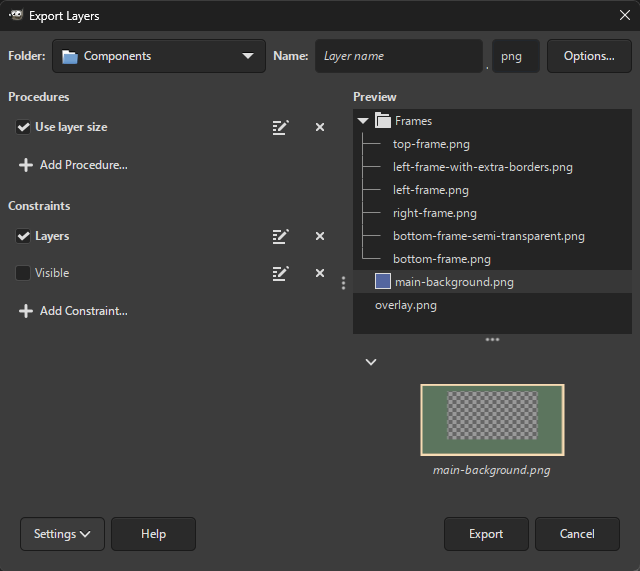
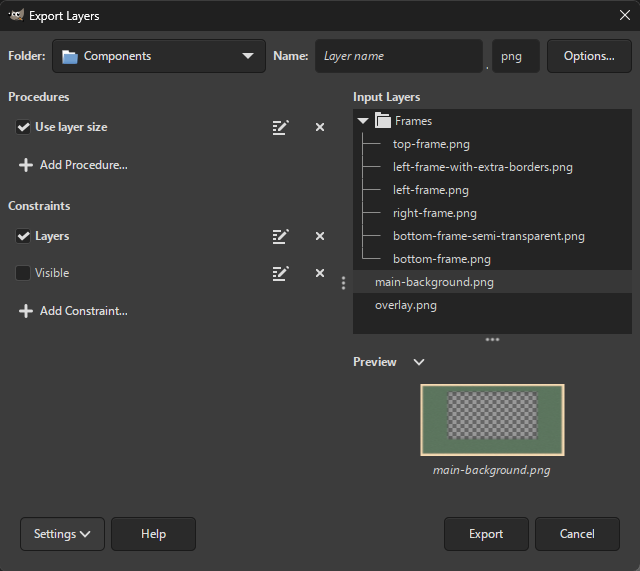
Release 0.8

diff --git a/sections/Customization.md b/sections/Customization.md
@@ -79,8 +79,8 @@ Yes! You may insert any GIMP filter as a procedure:
 While multipage PDF export is already possible in GIMP without any third-party plug-ins, Batcher allows you to apply custom procedures before the export or export each group layer (instead of the entire image).
 
 1. Select or type `pdf` as the file extension.
-2. Press the `Options...` button and select an option in `Perform export:`. To export a single image, select `For the entire image at once`.
-3. If you selected `For the entire image at once`, adjust `Image filename pattern` as seen fit.
+2. Press the `Options...` button and select an option in `Perform export:`. To export a single image, select `As a single image`.
+3. If you selected `As a single image`, adjust `Image filename pattern` as seen fit.
 4. You may want to uncheck the `Use layer size` procedure to use the image size (since PDF pages have the same dimensions), otherwise you might obtain unexpected results.
 
 
@@ -96,8 +96,8 @@ Each time you add this procedure, adjust the file extension, file format options
 * *How to adjust file format options*: If set to `Interactively`, a native file format dialog is displayed for the first layer to be exported. If set to `Use options below` (the default), you can adjust file format options in place without showing a file format dialog.
 * *File format options*: A list of options specific to the file format typed in the main dialog.
 * *If a file exists*: If set to `Ask` (the default), the user is asked to choose how to handle existing files (replace, skip, rename, etc.). Setting this to a different value applies that mode to each file without asking the user (e.g. setting this to `Replace` will automatically replace all existing files with the same name).
-* *Perform export*: Whether to export each layer separately ("For each layer"), each top-level layer or group layer separately ("For each top-level layer or group"), or a single image containing all layers ("For the entire image at once").
-  The latter two options provide multi-layer export. This allows exporting e.g. multipage PDFs or animated GIFs per top-level group layer and/or with additional custom procedures applied before the export.
+* *Perform export*: Whether to export each item separately ("For each image"/"For each layer"), each top-level item or folder separately ("For each top-level layer or group"/"For each top-level image or folder"), or a single image containing all items ("As a single image").
+  The latter two options provide multi-layer export. This allows exporting e.g. multipage PDFs or animated GIFs with additional custom procedures applied before the export.
 * *Image filename pattern*: Filename pattern available when a single image is exported (the "Entire image at once" option is selected).
   For Export Layers, the text entry next to `Name` still applies to individual layer names (since some multi-layer file formats also store layer names, e.g. TIFF or PSD).
 * *Use file extension in layer name*: If a layer name has a recognized file extension, use that file extension in place of the default file extension.
@@ -150,16 +150,19 @@ The layer name.
 
 Options:
 * *file extension strip mode*:
-	* `%e`: If a layer has a recognized file extension, keep the extension.
-	* `%i`: If a layer has a recognized file extension that matches the one in the `File extension` text entry, keep the extension.
+	* `%e`: Never strip the extension.
+	* `%i` (does not apply to Edit Layers): Strip the extension only if the layer has a recognized file extension that does not match the entered file extension.
+	* `%n` (does not apply to Edit Layers): Strip the extension only if the layer has a recognized file extension that matches the entered file extension (the inverse of `%i`).
 
 Examples:
-* `[layer name]` → `Frame.png`
-* `[layer name]` for a layer named `Some.Layer.png` → `Some.png`
-* `[layer name, %e]` → `Frame.png`
-* `[layer name, %e]` for a layer named `Some.Layer.png` → `Some.Layer.png`
-* `[layer name, %i]` → `Frame.png` (if the file extension is `png`)
-* `[layer name, %i]` → `Frame` (if the file extension is `jpg`)
+* `[layer name]` for a layer named `Frame` → `Frame`
+* `[layer name]` for a layer named `Frame.png` → `Frame`
+* `[layer name, %e]` for a layer named `Frame.png` if the file extension is `png` → `Frame.png`
+* `[layer name, %i]` for a layer named `Frame.png` if the file extension is `png` → `Frame.png`
+* `[layer name, %n]` for a layer named `Frame.png` if the file extension is `png` → `Frame`
+* `[layer name, %e]` for a layer named `Frame.png` if the file extension is `jpg` → `Frame.jpg`
+* `[layer name, %i]` for a layer named `Frame.png` if the file extension is `jpg` → `Frame`
+* `[layer name, %n]` for a layer named `Frame.png` if the file extension is `jpg` → `Frame.jpg`
 
 **Full layer name**
 
@@ -187,17 +190,36 @@ Options:
 * *wrapper*: A string that wraps around each path component.
   The wrapper must contain `%c` denoting the path component.
   Defaults to `%c`.
-* *file extension strip mode*:
-	* `%e`: If a layer has a recognized file extension, keep the extension.
-	* `%i`: If a layer has a recognized file extension that matches the one in the `File extension` text entry, keep the extension.
+* *file extension strip mode*: See the `\[layer name\]` field.
 
 Examples:
 * `[layer path]` → `Body-Hands-Left`
 * `[layer path, _]` → `Body_Hands_Left`
 * `[layer path, _, (%c)]` → `(Body)_(Hands)_(Left)`
 * `[layer path, _, (%c), %e]` → `Body-Hands-Left.png` (if the layer name is `Left.png` and the file extension is `png`)
-* `[layer path, _, (%c), %i]` → `Body-Hands-Left.png` (if the layer name is `Left.png` and the file extension is `png`)
-* `[layer path, _, (%c), %i]` → `Body-Hands-Left` (if the layer name is `Left.png` and the file extension is e.g. `jpg`)
+
+**\[output folder\]**
+
+The output folder selected in the plug-in dialog.
+
+Options:
+* *path component strip mode* (defaults to `%b`):
+  * `%b<number>`: Keep only `<number>` path components from the end. `%b` is transformed to the last path component, i.e. the folder name.
+  * `%f<number>`: Keep only `<number>` path components from the start.
+  * any other value, such as `%`, will resolve to the full path.
+* *separator*: A string separating the path components.
+  Defaults to `-`.
+* *wrapper*: A string that wraps around each path component.
+  The wrapper must contain `%c` denoting the path component.
+  Defaults to `%c`.
+
+Examples for a folder with the path `C:\Users\username\Pictures`:
+* `[output folder]` → `Pictures`
+* `[output folder, %]` → `C-Users-username-Pictures`
+* `[output folder, %b2]` → `username-Pictures`
+* `[output folder, %b2, _]` → `username_Pictures`
+* `[output folder, %b2, _, (%c)]` → `(username)_(Pictures)`
+* `[output folder, %f2]` → `C-Users`
 
 **\[replace\]**
 
@@ -260,19 +282,19 @@ Examples:
 
 **\[attributes\]**
 
-Layer or image attributes.
+Attributes of the current image and the current Layer.
 
 Options:
 * *pattern*: A string formatting the attributes.
   Available attributes:
-  * `%w`: The layer width.
-  * `%h`: The layer height.
-  * `%x`: The layer *x*-offset.
-  * `%y`: The layer *y*-offset.
   * `%iw`: The image width.
   * `%ih`: The image height.
+  * `%lw`: The layer width.
+  * `%lh`: The layer height.
+  * `%lx`: The layer *x*-offset.
+  * `%ly`: The layer *y*-offset.
 * *measure*: The measure in which the attribute values are displayed.
-  Applies to `%w`, `%h`, `%x` and `%y` only.
+  Applies to `%lw`, `%lh`, `%lx` and `%ly` only.
   Available measures:
   * `%px` (default): Display absolute values in pixels.
   * `%pc`: Display percentages relative to the image.
@@ -280,9 +302,9 @@ Options:
     For example, `%pc1` displays percentages rounded to a single decimal digit.
 
 Examples:
-* `[attributes, %w-%h-%x-%y]` → `1000-270-0-40`
-* `[attributes, %w-%h-%x-%y, %pc]` → `1.0-0.54-0.0-0.08`
-* `[attributes, %w-%h-%x-%y, %pc1]` → `1.0-0.5-0.0-0.1`
+* `[attributes, %lw-%lh-%lx-%ly]` → `1000-270-0-40`
+* `[attributes, %lw-%lh-%lx-%ly, %pc]` → `1.0-0.54-0.0-0.08`
+* `[attributes, %lw-%lh-%lx-%ly, %pc1]` → `1.0-0.5-0.0-0.1`
 * `[attributes, %iw-%ih]` → `1000-500`
 
 
@@ -437,7 +459,7 @@ To export the entire layer, leave this setting enabled.
 
 ### Adding Custom Procedures
 
-You can add any built-in GIMP procedure or plug-in by pressing `Add Procedure...` and then selecting `Add Custom Procedure...`.
+You can add any GIMP plug-in, layer effect (filter, GEGL operation) or GIMP procedure by pressing `Add Procedure...` and then selecting `Add Custom Procedure...`. Both built-in and any third-party plug-ins and layer effects are supported.
 
 ![Procedure browser dialog](../images/screenshot_procedure_browser_dialog.png)
 
@@ -445,6 +467,13 @@ You can preview how the selected procedure affects the resulting image (by press
 
 Once you are settled on the procedure, press `Add` to permanently add it to the list of procedures.
 You can [edit the procedure](#editing-procedures-and-constraints) anytime after adding it.
+
+All layer effects (procedures under the `Filters, Effects` category) have the following common parameters:
+* *Blend mode* - blend mode for the effect (default, dodge, burn, hard light, ...).
+* *Opacity* - the opacity of the effect.
+* *Merge filter* - the effect will be applied destructively, i.e. will be merged into the layer.
+* *Visible* (displayed under `More options`) - if unchecked, the effect will be added, but will not be applied.
+* *Filter name* (displayed under `More options`) - a custom name for the effect. If empty, a default name is assigned by GIMP.
 
 
 ## Constraints
@@ -480,12 +509,6 @@ Processes only layers having a file extension matching the extension typed in th
 **Selected in GIMP**
 
 Processes only layers selected in GIMP.
-
-**Selected in preview**
-
-Processes only layers selected in the preview.
-
-If you save settings, the selection is saved as well.
 
 **Top-level**
 
@@ -526,6 +549,7 @@ If a procedure contains a layer/drawable/item option, you may select one of the 
 * `Current Layer` (default): applies the procedure to the currently processed layer.
 * `Background Layer`: applies the procedure to the layer representing background, inserted via the `Insert background` procedure. If there is no such layer, the procedure will have no effect.
 * `Foreground Layer`: applies the procedure to the layer representing foreground, inserted via the `Insert foreground` procedure. If there is no such layer, the procedure will have no effect.
+* `All Layers`: applies the procedure to all layers within the currently processed image. This option is available usually only for procedures having the `The input drawables` argument. Note that a procedure may not work on multiple layers at once and thus may yield an error if this option is chosen.
 
 
 ### More Options

diff --git a/_posts/2024-12-28-0.8-released.md b/_posts/2024-12-28-0.8-released.md
@@ -1,0 +1,42 @@
+---
+layout: post
+title: "Batcher 0.8 Released"
+author: "Kamil Burda"
+category: news
+---
+
+<!-- end of summary -->
+
+General changes:
+* Updated Batcher to work with GIMP 3.0.0-RC2. **Due to backwards-incompatible changes, Batcher now requires GIMP 3.0.0-RC2 or later**. Saved settings from previous versions will still work properly.
+
+New features:
+* Non-destructive layer effects (filters, GEGL operations) can now be added as custom procedures. They can be found under the `Filters, Effects` category in the custom procedure browser. Beside parameters specific to each effect, you can adjust their blend mode, opacity, or they can optionally be merged into the layer (i.e. applied destructively).
+* You may now attempt to apply a procedure to multiple layers at once using the new `All Layers` option, if available for a particular procedure (usually those having the `The input drawables` argument). Note that a procedure may still fail even if this option is available as it may not support working with multiple layers at once.
+* Rename procedure: Added a new field named `[output folder]` that allows inserting the output folder selected in the plug-in dialog. You can adjust the path components to be inserted as well as the separator and wrapper around each component (in the same vein as `[layer path]`).
+* Rename procedure: Added `%n` option to the `[layer name]` and `[layer path]` fields acting as the inverse of `%i`.
+
+Changes to procedures and constraints:
+* Removed the `Selected in preview` constraint. For Export Layers and Edit Layers, the `Selected in GIMP` and `With color tags` constraints already provide a good equivalent.
+* Rename procedure: For the `[attributes]` field, changed the layer attributes from `%w`, `%h`, `%x` and `%y` to `%lw`, `%lh`, `%lx` and `%ly`, respectively.
+
+User interface changes:
+* Increased the width of the procedure browser so that there is more space to display labels for layer effects without the labels spanning too many lines.
+* Added a small delay to the image preview when the selected item changes. This prevents excessive changes when the selection changes rapidly.
+* Optimized the update of input items (when items are added/removed/renamed/updated upon changing procedures or constraints) if many items (hundreds and more) are present.
+* For Export Layers and Edit Layers, moved the "Preview" label directly above the image thumbnail and added a label named "Input Layers" above the list of layers.
+* Simplified how the preview is created internally, removing steps such as downscaling or merging layers.
+
+Bug fixes:
+* Fixed Export/Edit Selected Layers not working for group layers.
+* Fixed export for procedures manipulating image dimensions, selection and other image-wide attributes (such as `script-fu-addborder`, `script-fu-circuit` or conversion to the indexed type).
+* Fixed occasional artifacts in the preview.
+* Fixed the preview not working correctly for group layers.
+* Fixed constraints incorrectly excluding items in the preview. The bug caused items e.g. matching the `Matching File Extension` constraint to be excluded from the preview as its name may have changed during processing.
+* Fixed occasional incorrect names in the preview under the image thumbnail.
+* Fixed the `Rename` procedure renaming folders after items if `Rename folders` is enabled.
+* Fixed the `Rename` procedure assigning incorrect descending numbers if `Rename folders` is enabled.
+* Fixed a crash on plug-in startup if a file format is no longer available.
+* Fixed loading settings related to layers (e.g. layers selected in the preview) whose names contain `/`.
+
+[Download at GitHub](https://github.com/kamilburda/batcher/releases/tag/0.8)

diff --git a/sections/Usage.md b/sections/Usage.md
@@ -141,9 +141,6 @@ You can turn auto-closing the main dialog on/off by checking/unchecking `Setting
 
 ## Known Issues
 
-The export option `Interactively` is currently broken for many file formats [due to a bug in GIMP 3.0.0-RC1](https://gitlab.gnome.org/GNOME/gimp/-/issues/12349).
-This will be fixed in GIMP 3.0.0-RC2.
-
 If the *How to adjust file format options* export option is set to `Interactively`, and you press the Export button, it may seem as though nothing happens.
 In that case, the file format dialog may be displayed behind GIMP.
 If so, simply select the dialog in the taskbar to bring it up.

diff --git a/sections/Installation.md b/sections/Installation.md
@@ -6,7 +6,7 @@ navbar_active_tab: Installation
 
 ## Requirements
 
-* GIMP 3.0.0-RC1 or later
+* GIMP 3.0.0-RC2 or later
 * Python 3.7 or later (comes pre-installed with official GIMP installations except Linux)
 
 
